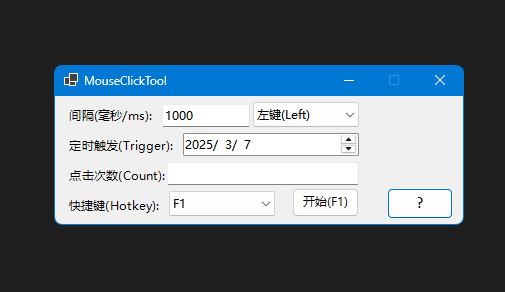
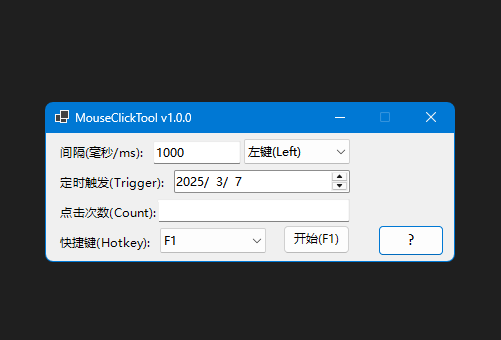
添加版本信息和帮助按钮，更新主窗口标题

Changed region(s): [[0.0898, 0.2158, 0.9281, 0.7705]]

diff --git a/App/MainForm.cs b/App/MainForm.cs
@@ -1,4 +1,5 @@
 using System.Globalization;
+using System.Reflection;
 using System.Runtime.InteropServices;
 
 namespace MouseClickTool
@@ -19,6 +20,10 @@ namespace MouseClickTool
             {
                 hk.Items.Add($"F{i}");
             }
+            var version = Assembly.GetExecutingAssembly().GetName().Version;
+            var versionString = $"{version.Major}.{version.Minor}.{version.Build}";
+            this.Text = $"MouseClickTool v{versionString}";
+            this.HelpButton = true;
 
             fCfg = Path.Combine(Path.GetTempPath(), $"MouseClickTool.ini");
             if (File.Exists(fCfg))

diff --git a/App/Program.cs b/App/Program.cs
@@ -3,6 +3,8 @@ using System.Reflection;
 [assembly: AssemblyTitle("MouseClickTool")]
 [assembly: AssemblyProduct("MouseClickTool")]
 [assembly: AssemblyCopyright("Copyright (C) 2025 qipai360.cn")]
+[assembly: AssemblyVersion("1.0.0")]
+[assembly: AssemblyFileVersion("1.0.0")]
 
 public static class Program
 {
